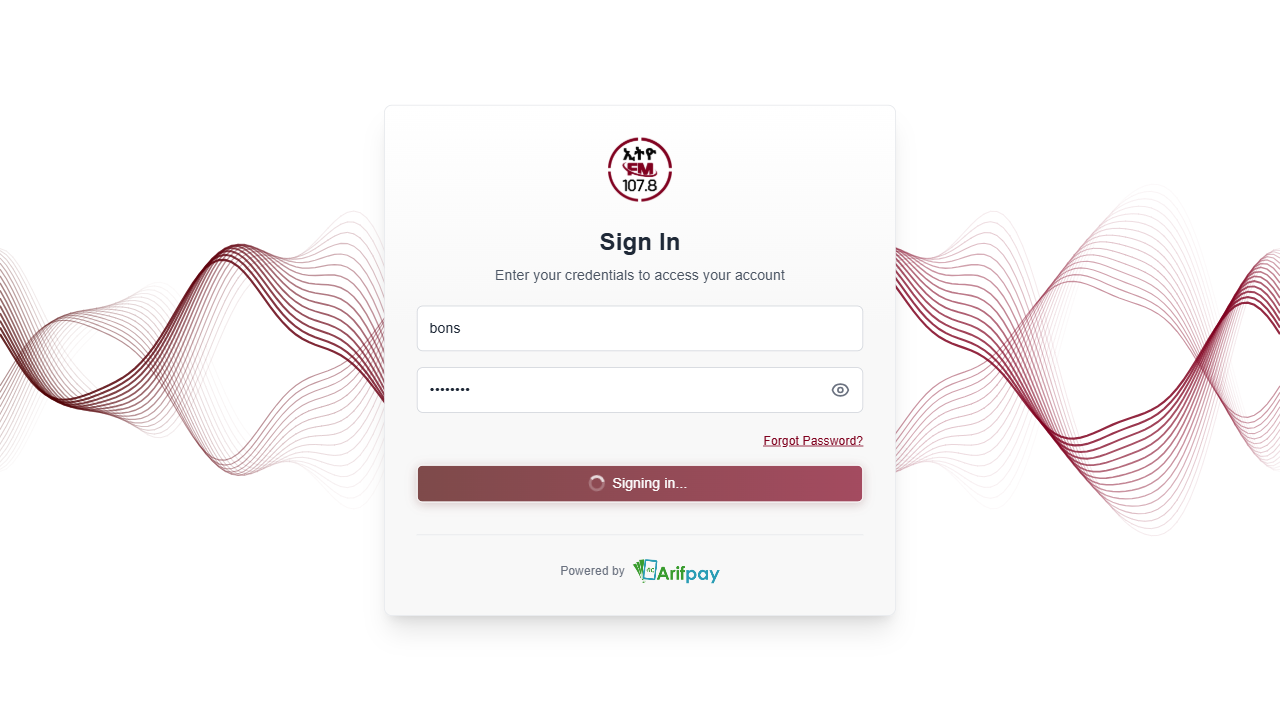
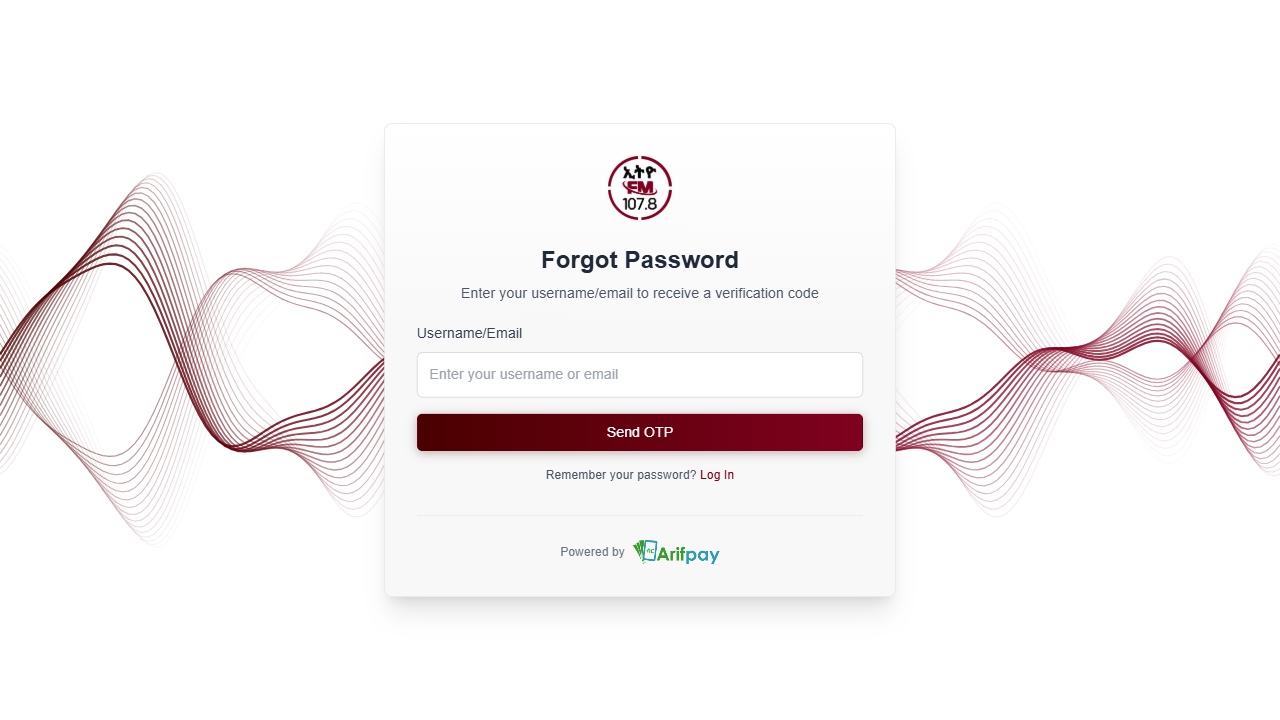
Added forgot password functionality

Changed region(s): [[0.0, 0.2444, 1.0, 0.7333], [0.375, 0.1833, 0.625, 0.4278], [0.3125, 0.7333, 0.6875, 0.8861]]

diff --git a/reports/report.html b/reports/report.html
@@ -328,7 +328,7 @@ div.media {
   </head>
   <body>
     <h1 id="title">report.html</h1>
-    <p>Report generated on 11-Mar-2026 at 13:44:20 by <a href="https://pypi.python.org/pypi/pytest-html">pytest-html</a>
+    <p>Report generated on 13-Mar-2026 at 11:49:10 by <a href="https://pypi.python.org/pypi/pytest-html">pytest-html</a>
         v4.2.0</p>
     <div id="environment-header">
       <h2>Environment</h2>
@@ -383,7 +383,7 @@ div.media {
         <h2>Summary</h2>
         <div class="additional-summary prefix">
         </div>
-        <p class="run-count">1 test took 00:00:10.</p>
+        <p class="run-count">1 test took 00:00:24.</p>
         <p class="filter">(Un)check the boxes to filter the results.</p>
         <div class="summary__reload">
           <div class="summary__reload__button hidden" onclick="location.reload()">
@@ -431,7 +431,7 @@ div.media {
       </thead>
     </table>
   <footer>
-    <div id="data-container" data-jsonblob="{&#34;environment&#34;: {&#34;Python&#34;: &#34;3.14.3&#34;, &#34;Platform&#34;: &#34;Windows-11-10.0.26200-SP0&#34;, &#34;Packages&#34;: {&#34;pytest&#34;: &#34;9.0.2&#34;, &#34;pluggy&#34;: &#34;1.6.0&#34;}, &#34;Plugins&#34;: {&#34;base-url&#34;: &#34;2.1.0&#34;, &#34;html&#34;: &#34;4.2.0&#34;, &#34;metadata&#34;: &#34;3.1.1&#34;, &#34;playwright&#34;: &#34;0.7.2&#34;}, &#34;Base URL&#34;: &#34;&#34;}, &#34;tests&#34;: {&#34;tests/test_login.py::test_login&#34;: [{&#34;extras&#34;: [], &#34;result&#34;: &#34;Passed&#34;, &#34;testId&#34;: &#34;tests/test_login.py::test_login&#34;, &#34;duration&#34;: &#34;00:00:10&#34;, &#34;resultsTableRow&#34;: [&#34;&lt;td class=\&#34;col-result\&#34;&gt;Passed&lt;/td&gt;&#34;, &#34;&lt;td class=\&#34;col-testId\&#34;&gt;tests/test_login.py::test_login&lt;/td&gt;&#34;, &#34;&lt;td class=\&#34;col-duration\&#34;&gt;00:00:10&lt;/td&gt;&#34;, &#34;&lt;td class=\&#34;col-links\&#34;&gt;&lt;/td&gt;&#34;], &#34;log&#34;: &#34;No log output captured.&#34;}]}, &#34;renderCollapsed&#34;: [&#34;passed&#34;], &#34;initialSort&#34;: &#34;result&#34;, &#34;title&#34;: &#34;report.html&#34;}"></div>
+    <div id="data-container" data-jsonblob="{&#34;environment&#34;: {&#34;Python&#34;: &#34;3.14.3&#34;, &#34;Platform&#34;: &#34;Windows-11-10.0.26200-SP0&#34;, &#34;Packages&#34;: {&#34;pytest&#34;: &#34;9.0.2&#34;, &#34;pluggy&#34;: &#34;1.6.0&#34;}, &#34;Plugins&#34;: {&#34;base-url&#34;: &#34;2.1.0&#34;, &#34;html&#34;: &#34;4.2.0&#34;, &#34;metadata&#34;: &#34;3.1.1&#34;, &#34;playwright&#34;: &#34;0.7.2&#34;}, &#34;Base URL&#34;: &#34;&#34;}, &#34;tests&#34;: {&#34;tests/test_forgotpassword.py::test_forgetpassword&#34;: [{&#34;extras&#34;: [], &#34;result&#34;: &#34;Passed&#34;, &#34;testId&#34;: &#34;tests/test_forgotpassword.py::test_forgetpassword&#34;, &#34;duration&#34;: &#34;00:00:24&#34;, &#34;resultsTableRow&#34;: [&#34;&lt;td class=\&#34;col-result\&#34;&gt;Passed&lt;/td&gt;&#34;, &#34;&lt;td class=\&#34;col-testId\&#34;&gt;tests/test_forgotpassword.py::test_forgetpassword&lt;/td&gt;&#34;, &#34;&lt;td class=\&#34;col-duration\&#34;&gt;00:00:24&lt;/td&gt;&#34;, &#34;&lt;td class=\&#34;col-links\&#34;&gt;&lt;/td&gt;&#34;], &#34;log&#34;: &#34;No log output captured.&#34;}]}, &#34;renderCollapsed&#34;: [&#34;passed&#34;], &#34;initialSort&#34;: &#34;result&#34;, &#34;title&#34;: &#34;report.html&#34;}"></div>
     <script>
       (function(){function r(e,n,t){function o(i,f){if(!n[i]){if(!e[i]){var c="function"==typeof require&&require;if(!f&&c)return c(i,!0);if(u)return u(i,!0);var a=new Error("Cannot find module '"+i+"'");throw a.code="MODULE_NOT_FOUND",a}var p=n[i]={exports:{}};e[i][0].call(p.exports,function(r){var n=e[i][1][r];return o(n||r)},p,p.exports,r,e,n,t)}return n[i].exports}for(var u="function"==typeof require&&require,i=0;i<t.length;i++)o(t[i]);return o}return r})()({1:[function(require,module,exports){
 const { getCollapsedCategory, setCollapsedIds } = require('./storage.js')

diff --git a/pages/forgotpassword_page.py b/pages/forgotpassword_page.py
@@ -1,0 +1,24 @@
+from playwright.sync_api import Page
+from pages.base_page import BasePage
+from config.config import USER_NAME
+
+
+import time
+import re
+class Forget_Password(BasePage):
+    def __init__(self,page:Page):
+        super().__init__(page)
+
+        self.forget_password_button = page.get_by_role("link")
+        self.enter_email = page.get_by_role("textbox")
+        self.send_otp_button = page.get_by_role("button", name=re.compile(r"Send OTP", re.IGNORECASE))
+        self
+    def forget_pass_click(self):
+        self.forget_password_button.click()
+        time.sleep(5)
+    def insert_email(self):
+        self.enter_email.fill(USER_NAME)
+    def click_send_otp_button(self):
+        self.send_otp_button.click()
+
+    

diff --git a/tests/test_forgotpassword.py b/tests/test_forgotpassword.py
@@ -1,0 +1,18 @@
+from pages.base_page import BasePage
+from pages.login_page import LoginPage
+from config.config import BASE_URL
+from pages.forgotpassword_page import Forget_Password
+
+def test_forgetpassword(browser_page):
+    Page = browser_page
+    login_page = LoginPage(Page)
+    forget_password = Forget_Password(Page)
+
+    login_page.navigate(BASE_URL)
+    forget_password.forget_pass_click()
+    forget_password.insert_email()
+    forget_password.click_send_otp_button()
+
+    input("Wait and enter OTP, then press Enter to continue...")
+
+

diff --git a/tests/test_login.py b/tests/test_login.py
@@ -1,6 +1,5 @@
 from pages.login_page import LoginPage
 from config.config import BASE_URL
-
 def test_login(browser_page):
     page = browser_page
 
